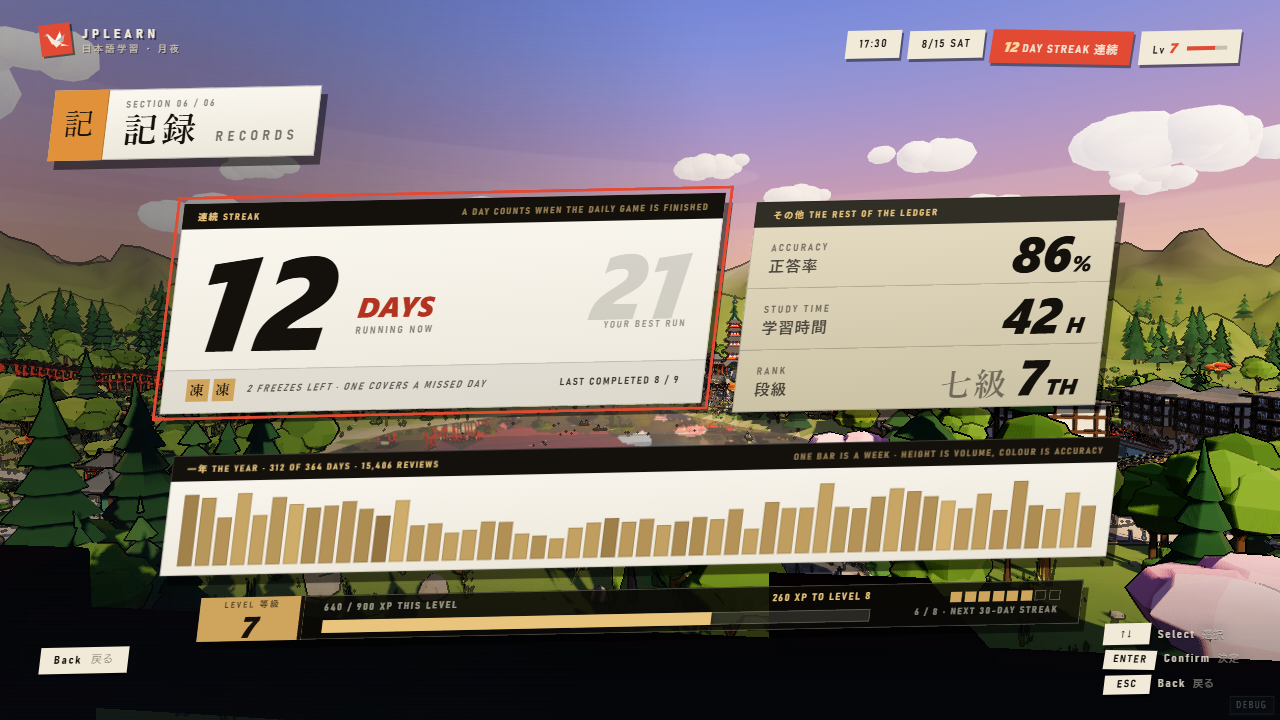
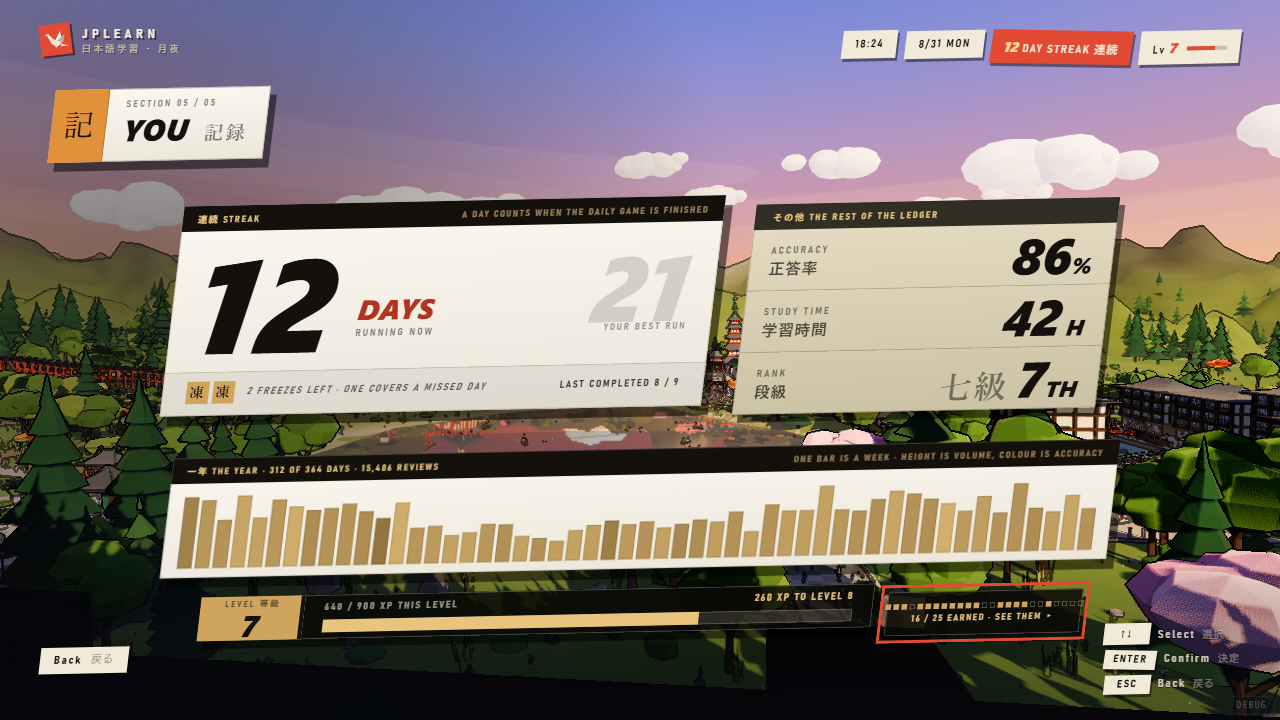
docs: the badge wall, and the screen count stops drifting
The wall joins the card, the ledger's figure gains the paragraph about its seventh
thing being a door rather than a figure, and PLAN-navigation.md records that two of
the three items it listed for this level do not survive the app — settings moves to
the overlay list beside "Look it up".

And the count is settled. It had drifted twelve → fourteen → sixteen → eighteen
because it was counting PLATES: every state of a screen and every half of a pair. A
screen is one drawing the menu can show, which is one value of `hudBespoke()` plus the
road and the standing menu. Thirteen bespoke, the road, the menu: fifteen. The card
says how it is counted now so the next person to add one does not have to guess.

diff --git a/mockups/menu-concepts/design-system/components/screens.html b/mockups/menu-concepts/design-system/components/screens.html
@@ -1,7 +1,7 @@
-<!-- @dsCard group="Components" name="The screens" subtitle="Eighteen screens across three levels, each a real 1280×720 plate" width="1360" height="14700" -->
+<!-- @dsCard group="Components" name="The screens" subtitle="Fifteen screens across three levels, each a real 1280×720 plate" width="1360" height="15650" -->
 <!doctype html>
 <meta charset="utf-8">
-<title>The eighteen screens that exist</title>
+<title>The fifteen screens that exist</title>
 <style>
   :root {
     --washi: #f2ead8; --ink: #14110d; --hi: #e34a33; --gold: #cfa45c; --gold-hi: #e8c47c;
@@ -47,7 +47,7 @@
   td { color: rgba(242,234,216,0.76); }
 </style>
 
-<h1>The eighteen screens that exist</h1>
+<h1>The fifteen screens that exist</h1>
 <p class="lede">
   <code>built.html</code> documents five OBJECTS — the menu row, the road tablet, the hero card, the
   heading slab, the caption chip. It is still correct about those. This card is which SCREENS they
@@ -55,11 +55,11 @@
 </p>
 <p class="lede">
   <b>Every plate below is the real mockup at 1280&times;720 with the clock frozen at 17:30.</b> One
-  hour for all eighteen, so what differs between them is shape rather than lighting — for the ground
+  hour for all fifteen, so what differs between them is shape rather than lighting — for the ground
   each section actually stands on across the day, see <code>foundations/backdrops.html</code>.
 </p>
 <p class="lede">
-  <b>All eighteen sit on the frame contract</b> (<code>foundations/frame-contract.html</code>): the
+  <b>All fifteen sit on the frame contract</b> (<code>foundations/frame-contract.html</code>): the
   drawing inside x&nbsp;160&ndash;1120 / y&nbsp;192&ndash;576, bare valley 160px either side,
   whole-set summaries in the foot band. Read that card before designing a new one — in particular
   the part about skew being paint rather than layout, which is what puts a screen in the moat while
@@ -67,16 +67,20 @@
 </p>
 
 <div class="note">
-  <b>Eighteen screens, three levels.</b>
+  <b>Fifteen screens, three levels — counted, not estimated.</b>
+  <p style="margin:6px 0 0">This number has drifted upward for weeks because it was counting
+  PLATES: every state of a screen and every half of a pair. A screen is one drawing the menu can
+  show, which is one value of <code>hudBespoke()</code> plus the road and the standing menu. Thirteen
+  bespoke, the road, the menu. The plates below still outnumber them, deliberately — a locked level
+  and an open one are one screen and two pictures.</p>
   <table>
-    <tr><th>LEVEL 1</th><td>the standing menu — the hero, and five section rows beneath it</td></tr>
-    <tr><th>LEVEL 2</th><td>six: The Path's path &middot; Practice's lanes &middot; The World's
-      lanes &middot; The Exam's ascent &middot; You's ledger &middot; and the daily road, which is
-      reached from inside Practice rather than from a row of its own</td></tr>
-    <tr><th>LEVEL 3</th><td>ten: the deck &middot; the feed &middot; the cleared pile &middot;
-      the drill modes &middot; the daily road &middot; the library &middot; the scene picker &middot;
-      one JLPT level, open or shut &middot; and the unlock moment, which is the one screen here
-      that is an EVENT rather than a place &mdash; nothing navigates to it</td></tr>
+    <tr><th>LEVEL 1</th><td><b>1</b> — the standing menu: the hero, and five section rows</td></tr>
+    <tr><th>LEVEL 2</th><td><b>6</b> — path &middot; lanes &middot; world &middot; ascent &middot;
+      ledger &middot; and the daily road, reached from inside Practice rather than from a row of
+      its own</td></tr>
+    <tr><th>LEVEL 3</th><td><b>8</b> — deck &middot; feed &middot; library &middot; scene picker
+      &middot; drill modes &middot; one JLPT level &middot; the unlock moment &middot; the badge
+      wall</td></tr>
   </table>
   <p style="margin:9px 0 0"><b>Two sections have lanes now, and they are the same component.</b>
   Practice's three and The World's two are one card doing one job — "which of these do you want to
@@ -229,6 +233,11 @@
       weekly bars, height for volume and colour for accuracy. Classes are <code>.lg-*</code>.</p>
     <p>It must survive a bad week: press W in the mockup for a streak of one and a year mostly empty.
       A records screen that only looks good on a good account has not been tested.</p>
+    <p><b>Six of its seven things are figures and the seventh is a door.</b> The badges used to be
+      eight pips inside the level bar — the entrance to a whole screen drawn as a decoration on a
+      different figure, and unaddressable, since the level bar is itself the button. They are their
+      own plate at the right of the foot band now, which puts them beside the level in the cursor's
+      walk rather than under it.</p>
   </figcaption>
 </figure>
 
@@ -325,6 +334,27 @@
     <p>Four of the seventeen exist on exactly one deck &mdash; Stroke Order is kanji only, Vibe
       Check is grammar only, Compound Builder and Conjugation Drill are vocabulary only. That is
       what this screen is made of, and the reason a flat list of seventeen would be a lie.</p>
+  </figcaption>
+</figure>
+
+<figure>
+  <img src="../assets/screen-wall.png" alt="You, the badge wall">
+  <figcaption>
+    <div class="name"><b>THE WALL</b><i>YOU &middot; LEVEL 3 &middot; 25 BADGES</i><u>peers</u></div>
+    <p><b>Twenty-five seals in the four groups <code>useAchievements</code> merges</b>, every name
+      and description out of <code>features/achievements/constants.ts</code>. The ledger had been
+      drawing eight of them as anonymous pips inside the level bar. Classes are <code>.bw-*</code>.</p>
+    <p><b>Earned is stamped and unearned is hollow</b>, and there is no third state — <code>earned</code>
+      is a boolean everywhere it is computed, so a half-tone would be inventing a degree of earned
+      the data does not have. The description doubles as the requirement, so a locked seal still
+      says what opens it; a wall that will not is a wall of questions.</p>
+    <p><b>A band is as long as its group.</b> Laid at the full stage width they were four identical
+      slabs with three seals on one and eleven on another, mostly empty paper. Sized to their content
+      the band's LENGTH is the group's size — a figure the screen was not drawing before.</p>
+    <p><b>The plan wanted three things at this level and two did not survive the app.</b> History is
+      already the ledger: 52 weeks with accuracy per bar, and every figure opens onto its own reading.
+      Settings is <code>AppSettingsModal</code>, and a tabbed modal reachable from anywhere is the
+      right shape for settings — it belongs with "Look it up" as an overlay, not as a rung.</p>
   </figcaption>
 </figure>
 

diff --git a/mockups/menu-concepts/PLAN-navigation.md b/mockups/menu-concepts/PLAN-navigation.md
@@ -82,7 +82,13 @@ Plus **Look it up** 引く — an overlay on one key from any level, not a secti
   section is a separate gate, so a total above the pass mark with that section below 19 (or 38
   at N4/N5) is still a fail. It also draws what the app *cannot* project — there is no
   listening content, so `overall_passes` is always False and the total is hatched, not zeroed.
-- **RECORDS → You.** Gains achievements, history and settings.
+- **RECORDS → You.** Gains achievements. **Built 2026-08-31 — and history and settings did not
+  survive the app.** History is already the ledger's level two: 52 weeks of real activity with
+  accuracy per bar, and `lgSheet` opens each of its six figures onto its own reading. A second
+  screen would redraw the year band or invent data — there is no general history command on the
+  bridge, only `assistant-chat-history` and `jlpt-exam-history`, both narrow. Settings is
+  `AppSettingsModal`, a tabbed modal, and that is the right shape for it: reachable from anywhere,
+  not a destination in a progression tree. **Settings joins "Look it up" as an overlay.**
 - **New: Look it up.** `dictionary-search`, `kanji-detail`, `lookup-sentence`, `assistant-chat`
   and `assistant-chat-ocr` all exist on the bridge and appear nowhere in the menu.
 
@@ -98,7 +104,7 @@ streak, XP, level. *Built; the hero and the progressive reveal are new.*
 | Practice | three lanes **[new]** | review **[new]** · drill picker **[briefed]** · daily games **[built]** | the game runs *(in the app)* |
 | The World | two lanes **[built]** | the library **[built]** · pick a scene **[built]** | the reader · the conversation *(in the app)* |
 | The Exam | the ascent **[built]** | a level **[built]** | the exam runs *(in the app)* |
-| You | the ledger **[built]** | achievements · history · settings **[to design]** | — |
+| You | the ledger **[built]** | the badge wall **[built]** · ~~history~~ · ~~settings~~ — see below | — |
 
 Everything marked *(in the app)* exists as a React feature today and is not a menu screen —
 `features/study-session`, `MinigameView`, `features/daily-games`, `features/passages`
